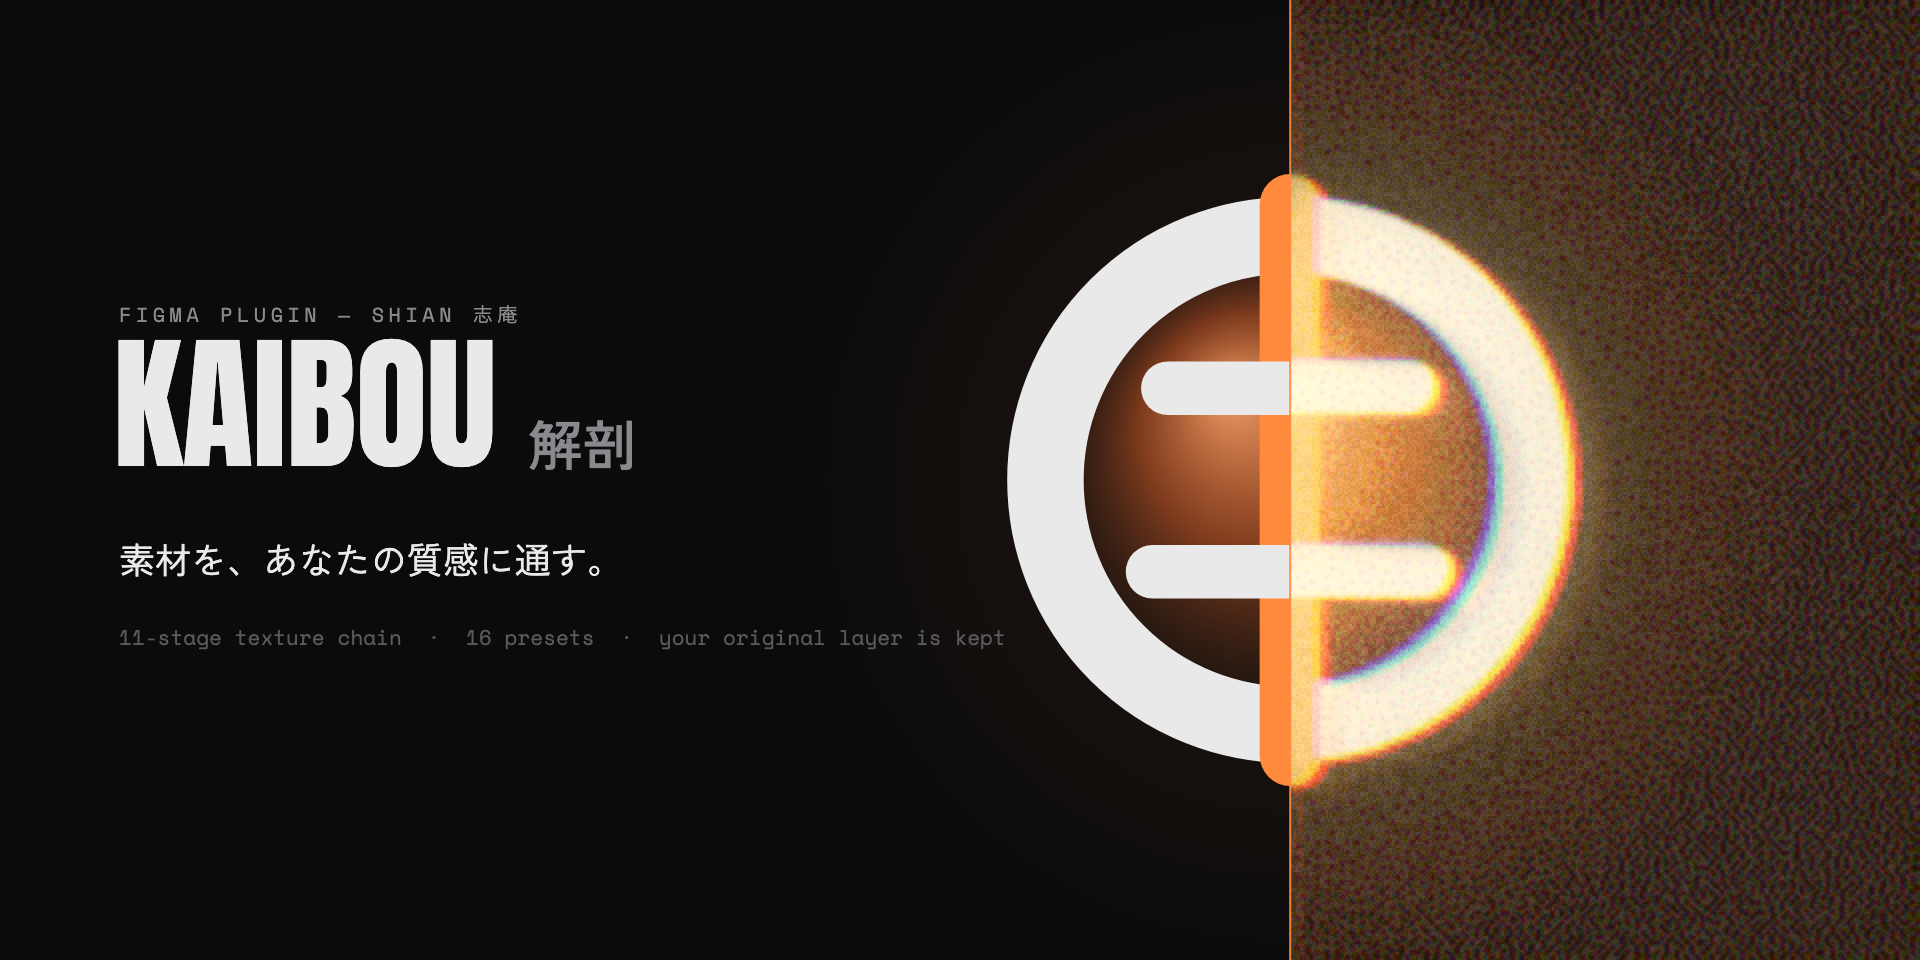
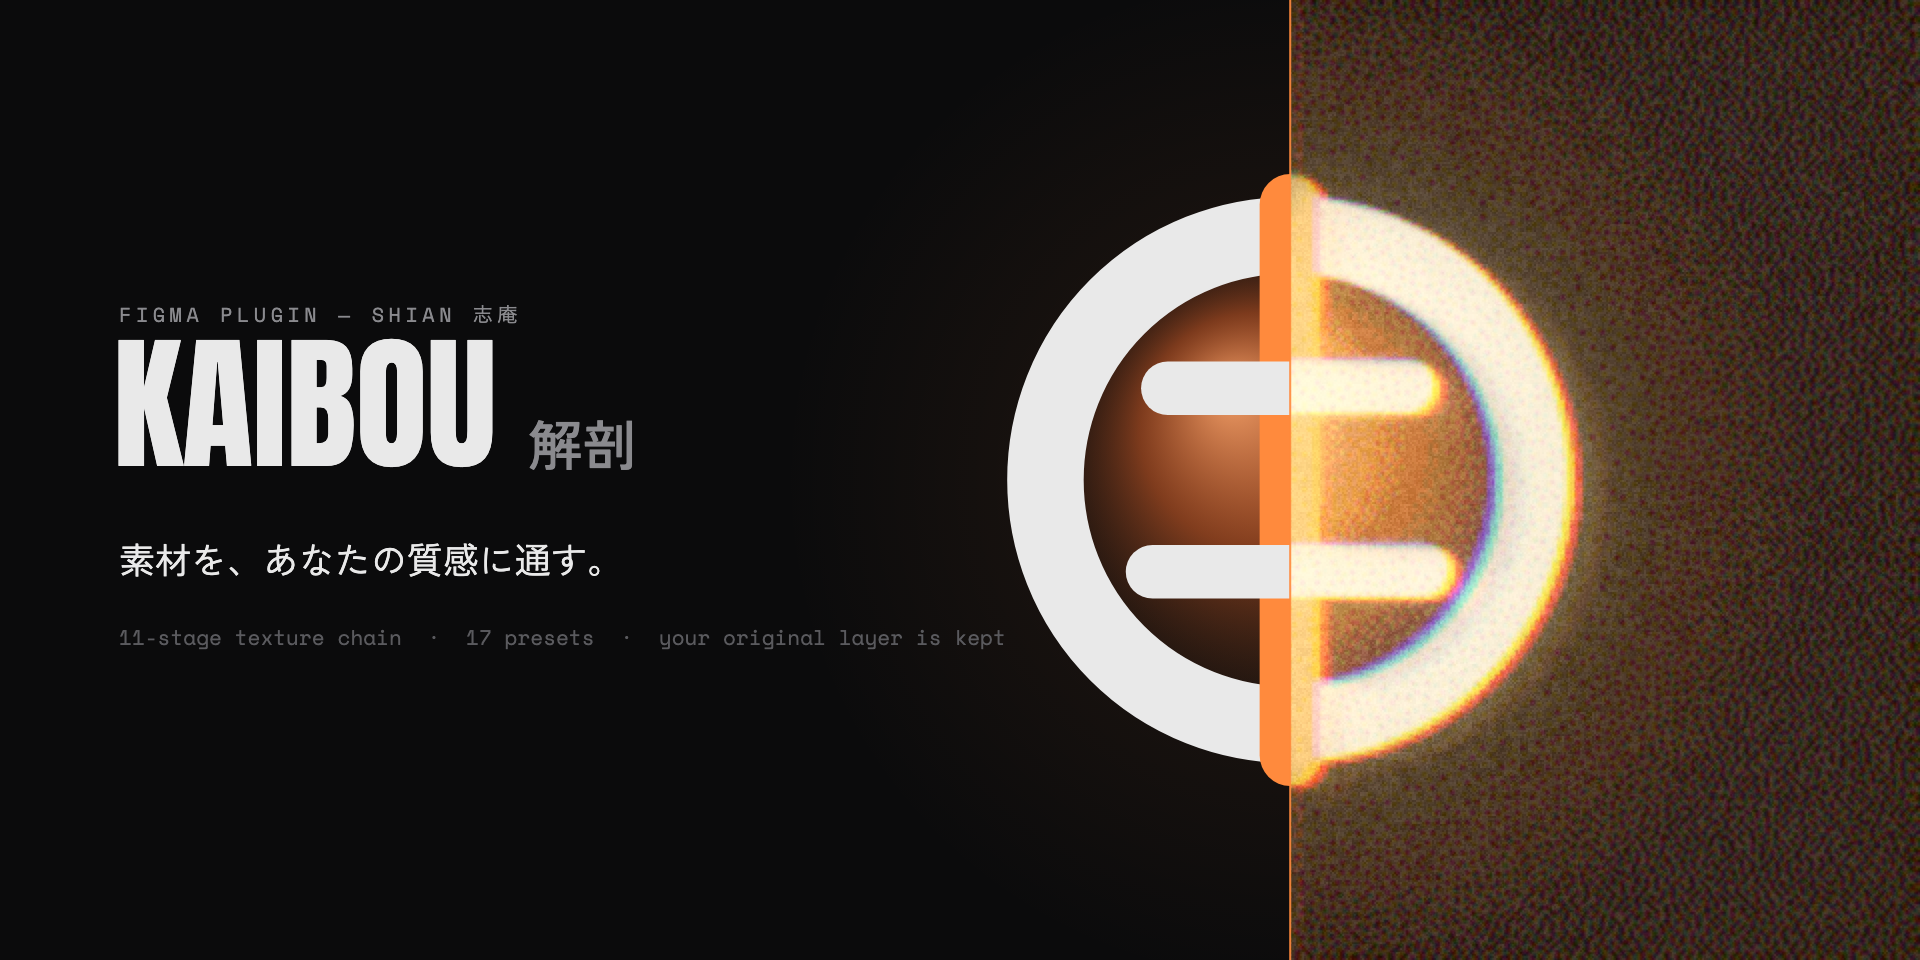
kaibou: store listing copy (JA/EN), and the cover said 16 presets when there are 17

diff --git a/kaibou/plugin/store/render.html b/kaibou/plugin/store/render.html
@@ -436,7 +436,7 @@ function drawCover(W,H){
 
   g.fillStyle = '#5a5a5e'
   g.font = `400 ${Math.round(H*0.0215)}px 'Space Mono', ui-monospace, monospace`
-  g.fillText('11-stage texture chain  ·  16 presets  ·  your original layer is kept', L, H*0.672)
+  g.fillText('11-stage texture chain  ·  17 presets  ·  your original layer is kept', L, H*0.672)
 
   return out
 }

diff --git a/kaibou/plugin/store/listing.md b/kaibou/plugin/store/listing.md
@@ -1,0 +1,94 @@
+# Kaibou — Figma Community 掲載文面（正本）
+
+作成 2026-07-24。**初回公開用**。scratchpad は消えるのでここが正本。
+数字の根拠：チェーン11段（expo / eq / dec / amp / rev / echo / filt / reg / util / tint / noise。＋Master）、プリセット**17**（Kaibou, Film, Bloom, Chrome, Grain, Xerox, Halftone, Riso, Newsprint, VHS, Editorial, Duotone, Mirror, Paper, Concrete, Toner, Clean）。
+
+---
+
+## Name（`manifest.json` の `name` ＝ 掲載名）
+
+現在：`Kaibou`
+**提案：`Kaibou — run your material through a chain`**
+（OtO が `OtO — listen to your layout` の形。Kaibou も一言で何をするかを名前に入れる）
+
+## Support contact
+
+`99letters99@gmail.com`
+
+## Network access
+
+なし（`allowedDomains: ["none"]`）。データセキュリティ設問はすべて「バックエンド無し／ネットワーク無し」で通る。
+
+---
+
+## Description — EN
+
+Kaibou (解剖, "anatomy") runs your material through a texture chain. It is not a filter you stack on top. It is a mix, and the artwork goes through it.
+
+Eleven stages, borrowed straight from a music chain — Exposure, Hi-Cut, Crush, Drive, Bloom, Echo, Low-Pass, Registration, Width, Duotone, Noise — with one Master dry/wet over all of it.
+
+At around 20% Master it is a texture, not an effect. At 100% it is a piece. One chain, swinging both ways.
+
+Your layers survive
+• Whole layer — the result is placed above and the original is kept, hidden and locked. Select the result again and every knob comes back where you left it. Restore puts it back.
+• Paint only — the chain runs over the frame's fill and the children are untouched. Auto layout and text survive.
+
+LIVE is a fitting, not a decision
+LIVE pushes to the canvas the moment you let go of a slider. Switch LIVE off, or press Restore, and everything you tried on peels away. Only Apply commits.
+
+17 presets
+Kaibou · Film · Bloom · Chrome · Grain · Xerox · Halftone · Riso · Newsprint · VHS · Editorial · Duotone · Mirror · Paper · Concrete · Toner · Clean
+
+Run every asset in a project through the same chain and they all look like they came off the same hand. That is the part nobody has a tool for.
+
+Everything runs locally. The plugin has no network access and sends your artwork nowhere.
+
+Named after *Kaibou Zukan* (解剖図鑑) — an anatomical picture book — an album by 99LETTERS. From SHIAN 志庵, the design and plugin studio of Kinoshita Studio.
+
+---
+
+## Description — JA
+
+Kaibou（解剖）は、素材をあなたの質感チェーンに通すプラグインです。上に重ねるフィルタではありません。**通す**ためのミックスです。
+
+11段のチェーンは、音のチェーンをそのまま画像に翻訳したもの — Exposure / Hi-Cut / Crush / Drive / Bloom / Echo / Low-Pass / Registration / Width / Duotone / Noise。その全体に Master（dry/wet）が1つ掛かります。
+
+**Master 20% あたりなら効果ではなく質感になり、100% まで回すと作品になります。** 同じチェーンで、振れ幅が両側にあります。
+
+■ レイヤーは壊れません
+・**レイヤー全体** — 結果は元の上に置かれ、**元のレイヤーは隠して残ります**（ロック付き）。結果をもう一度選べば、つまみは全部そのままの位置で戻ってきます。「元に戻す」で完全復元。
+・**背景だけ** — フレームの塗りだけがチェーンを通り、**中のレイヤーは無傷**。Auto Layout もテキストも生きたままです。
+
+■ LIVE は試着であって、決定ではありません
+LIVE を押すと、スライダーを離した瞬間にキャンバスへ反映されます。LIVE を切る、または「元に戻す」を押せば、試着したものは全部剥がれます。**確定するのは「適用」だけ。**
+
+■ プリセット17種
+Kaibou・Film・Bloom・Chrome・Grain・Xerox・Halftone・Riso・Newsprint・VHS・Editorial・Duotone・Mirror・Paper・Concrete・Toner・Clean
+
+プロジェクトの全アセットを同じチェーンに通せば、**全部が同じ手を通ったように見えます**。トーン＆マナーの統一を、デザイナーは毎回手作業でやっている。そこに道具がありません。
+
+すべて端末内で動きます。ネットワーク接続はなく、作ったものはどこにも送られません。
+
+名前は 99LETTERS のアルバム『解剖図鑑 / Kaibou Zukan』から。SHIAN 志庵（木下スタジオのデザイン／プラグインスタジオ）より。
+
+---
+
+## Tags（候補・Figma は12個まで）
+
+texture, grain, noise, halftone, riso, duotone, print, film, dither, poster, retro, image effects
+
+## 掲載画像
+
+| | ファイル | 状態 |
+|---|---|---|
+| アイコン 128×128 | `icon-128.png` | ✅ |
+| カバー 1920×960 | `cover-1920x960.png` | ✅ |
+| カルーセル | — | ❌ 未。before → after が一発で分かる実機スクショ／GIF が要る |
+
+## 公開手順（OtO の実績ベース）
+
+1. `manifest.json` の `id` を **Figma 発行の実ID** に差し替え（デスクトップ → Plugins → Development → New plugin…）
+2. Figma デスクトップで Publish → Name / Icon / Cover / Description / Tags / Category
+3. データセキュリティ設問＝バックエンド無し・ネットワーク無し・データ送信無し
+4. Support contact ＝ `99letters99@gmail.com`
+5. 公開後：サイト `shian/kaibou.html` の CTA「近日公開」を実URLへ差し替え
